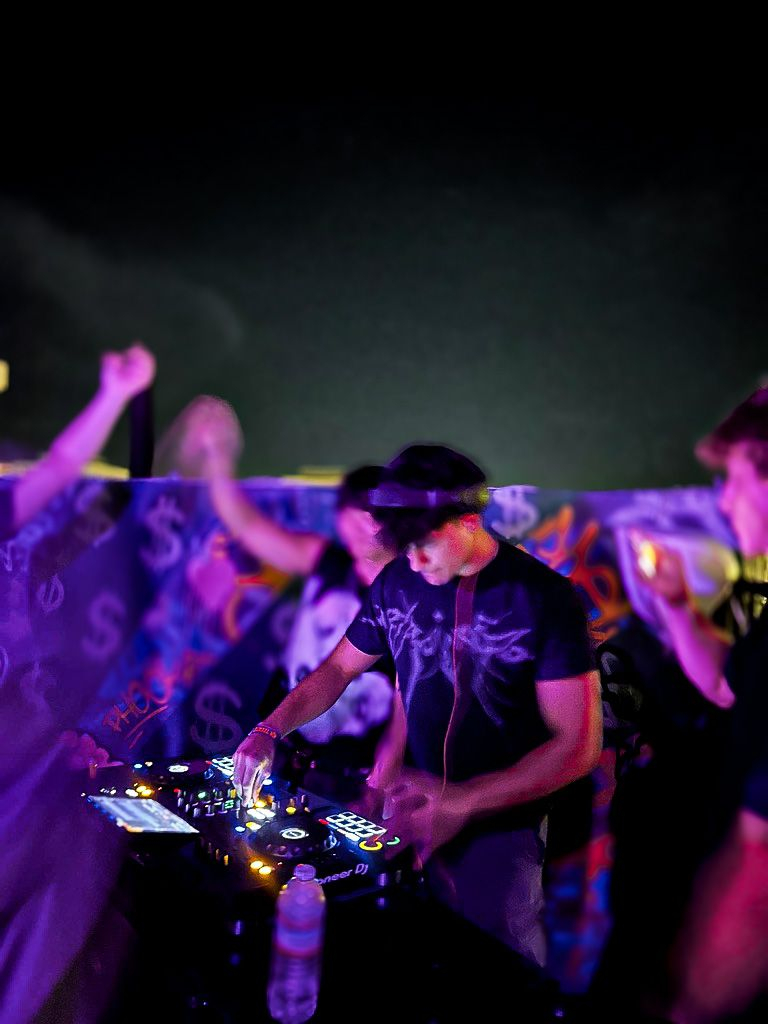
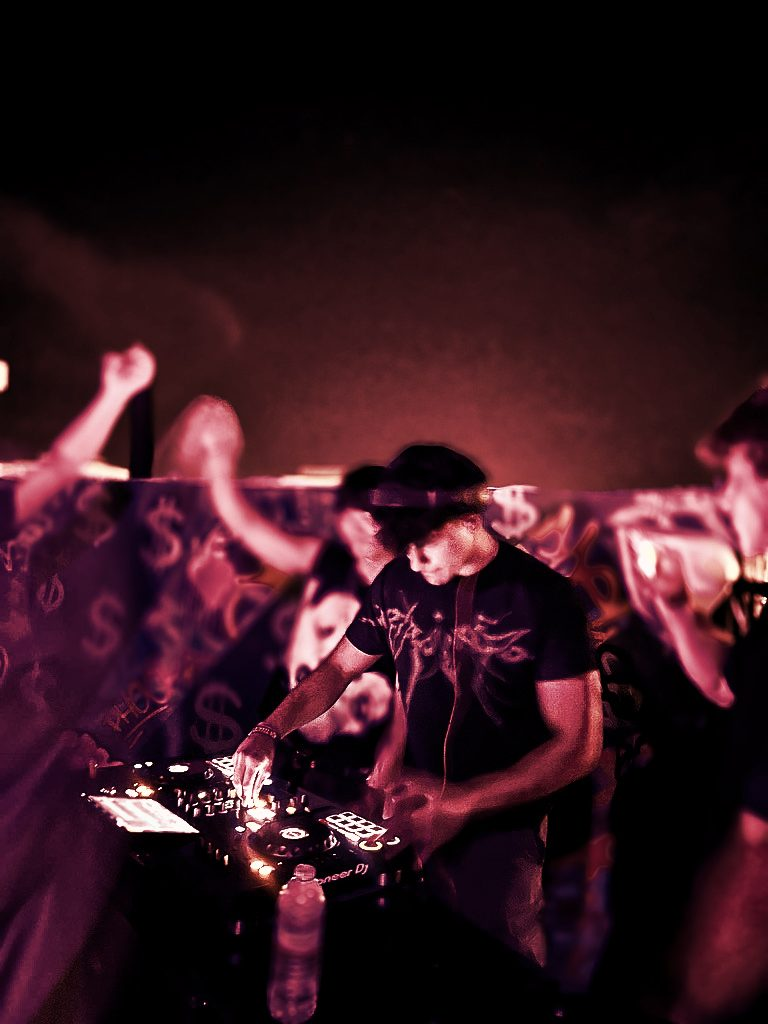
Color-grade photos to SINH red, TikTok cyan border, trim hero line
Claude-Session: https://claude.ai/code/session_01EYSmnzHij6LtAFgqLWdDgt

diff --git a/index.html b/index.html
@@ -97,7 +97,7 @@ nav img{height:34px;width:auto}
 .ico{transition:fill .15s,filter .15s}
 .sc:hover .ico,.sc:focus-visible .ico{fill:#FF5500}.sc:hover,.sc:focus-visible{border-color:#FF5500!important}
 .ig:hover .ico,.ig:focus-visible .ico{fill:url(#igGrad)}.ig:hover,.ig:focus-visible{border-color:#DD2A7B!important}
-.tt:hover .ico,.tt:focus-visible .ico{fill:#fff;filter:drop-shadow(-2px -2px 0 #25F4EE) drop-shadow(2px 2px 0 #FE2C55)}.tt:hover,.tt:focus-visible{border-color:#FE2C55!important}
+.tt:hover .ico,.tt:focus-visible .ico{fill:#fff;filter:drop-shadow(-2px -2px 0 #25F4EE) drop-shadow(2px 2px 0 #FE2C55)}.tt:hover,.tt:focus-visible{border-color:#25F4EE!important}
 .yt:hover .ico,.yt:focus-visible .ico{fill:#FF0000}.yt:hover,.yt:focus-visible{border-color:#FF0000!important}
 .lt:hover .ico,.lt:focus-visible .ico{fill:#43E660}.lt:hover,.lt:focus-visible{border-color:#43E660!important}
 .book{display:grid;grid-template-columns:minmax(0,1fr) minmax(0,1.1fr);gap:clamp(28px,5vw,72px);align-items:start;border-top:1px solid var(--line)}
@@ -126,7 +126,7 @@ footer{padding:22px max(5vw,16px);color:var(--mute);font-size:14px;display:flex;
     </g>
   </svg>
   <p class="tag">Hip-hop classics reimagined with experimental bass.</p>
-  <p class="where">Tucson, AZ and Chicago, IL. Pronounced "sin," rhymes with "win."</p>
+  <p class="where">Tucson, AZ and Chicago, IL.</p>
   <div class="ctas">
     <a class="btn solid" href="#booking">Book SINH</a>
     <a class="btn" href="https://soundcloud.com/officiallysinh">Listen on SoundCloud</a>
